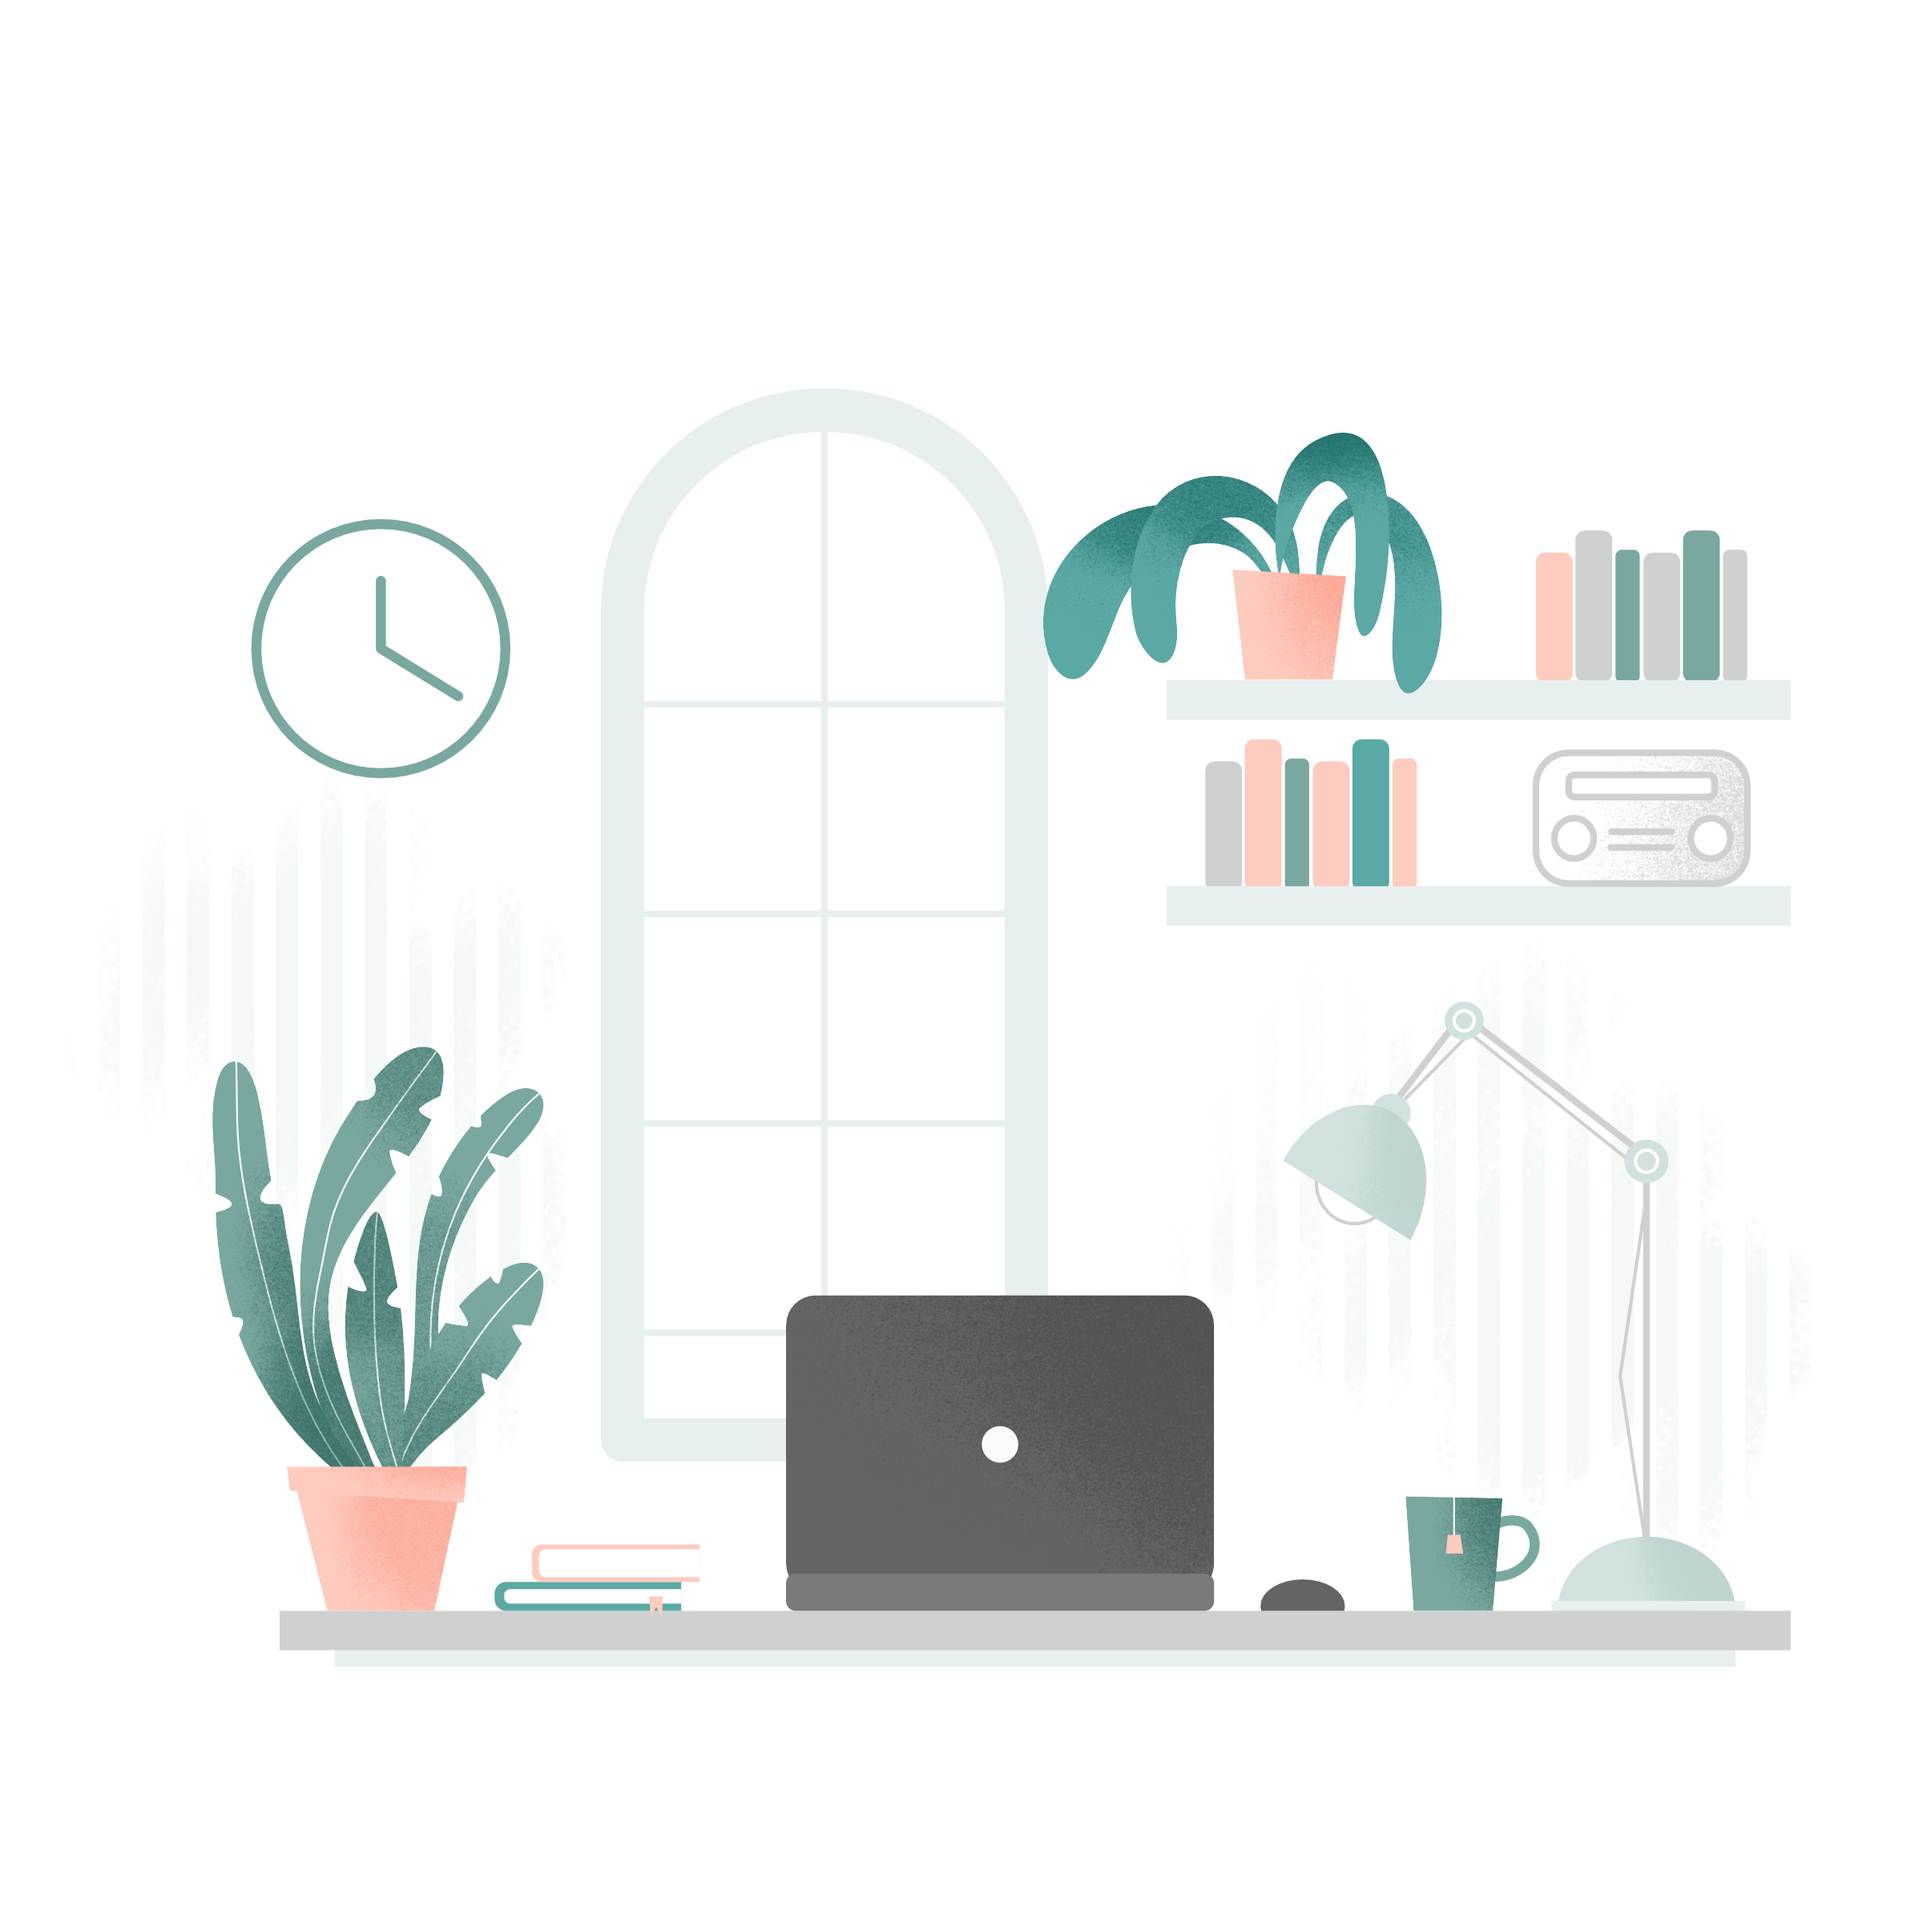
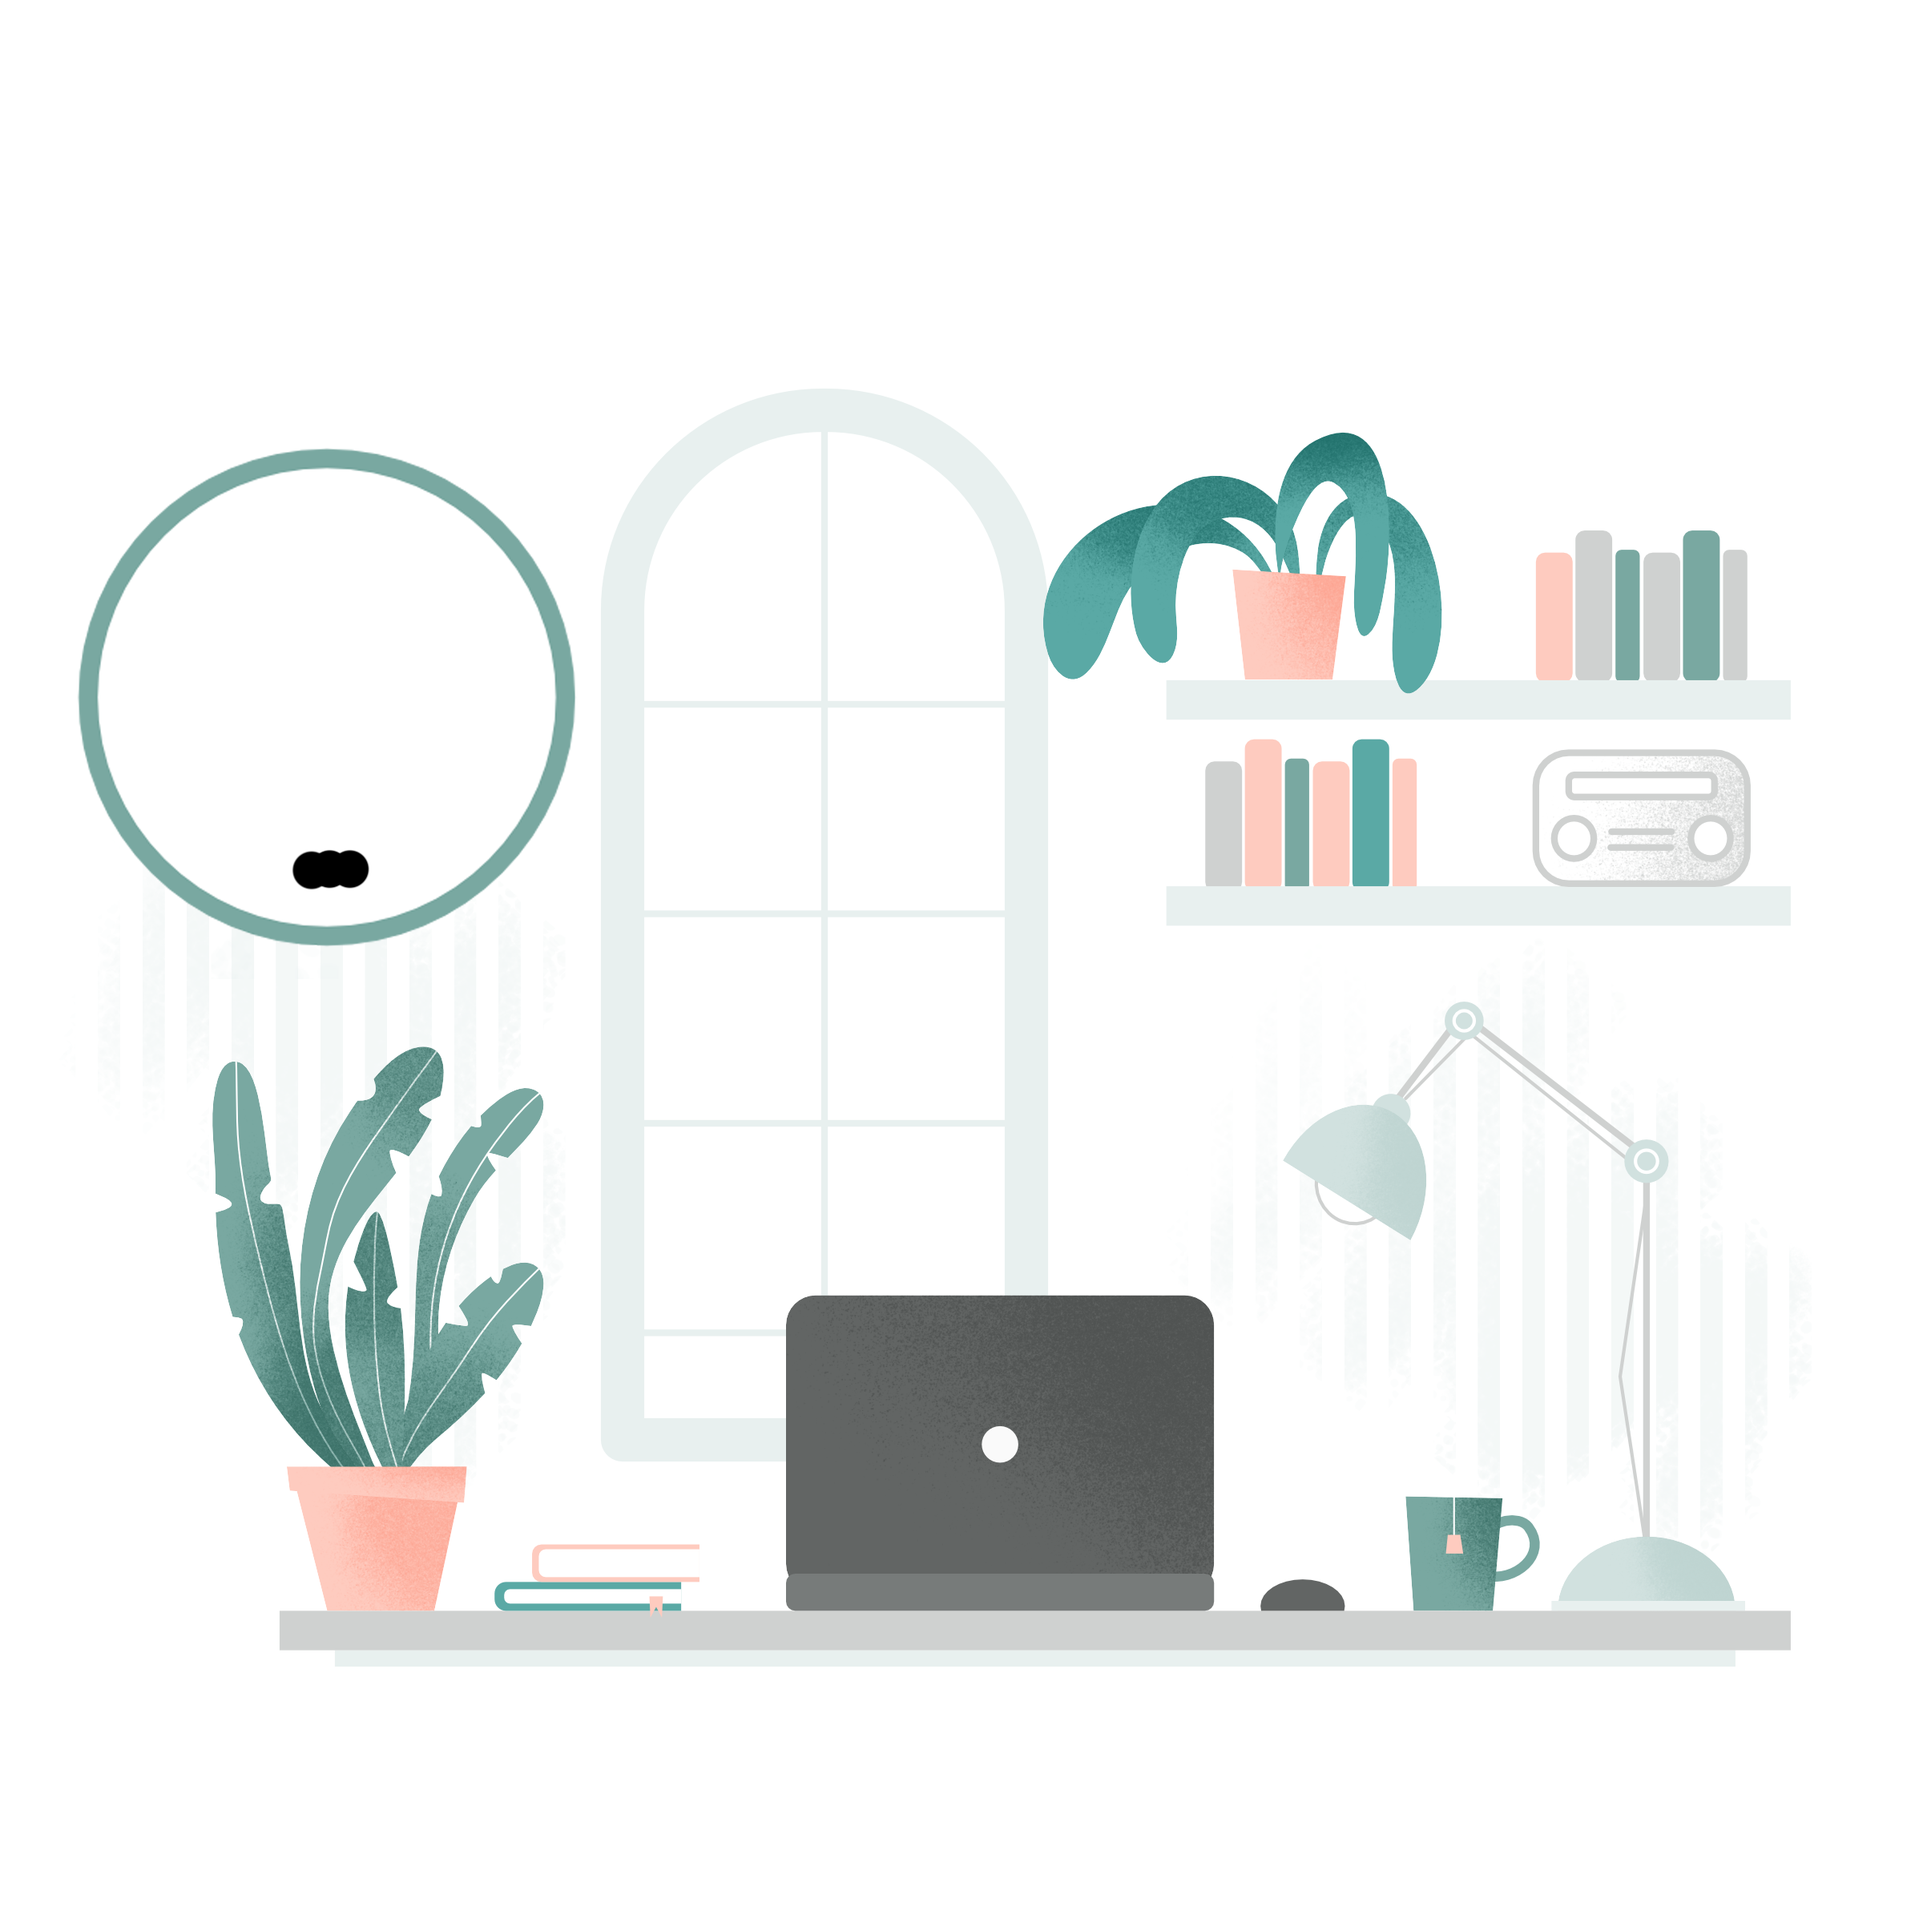
overlay finished, clock started

Changed region(s): [[0.0312, 0.2188, 0.3125, 0.5], [0.125, 0.2812, 0.1562, 0.375], [0.1875, 0.3125, 0.2188, 0.3438]]

diff --git a/src/lib/ui/Overlay.svelte b/src/lib/ui/Overlay.svelte
@@ -1,6 +1,6 @@
 <script>
   import OutClick from 'svelte-outclick';
-  import { currentState } from '../helpers/stores.js';
+  import { currentState, defaultState, exclude } from '../helpers/stores.js';
   import Laptop from './overlays/Laptop.svelte';
   import Radio from './overlays/Radio.svelte';
   import Smartphone from './overlays/Smartphone.svelte';
@@ -20,3 +20,78 @@
 <OutClick on:outclick={() => ($currentState.overlayComponent = 0)}>
   <svelte:component this={scene[$currentState.overlayComponent]} />
 </OutClick>
+
+{#if !$currentState.showMenu}
+  <button
+    id="menuButton"
+    on:click={() => {
+      $currentState.showMenu = !$currentState.showMenu;
+    }}
+    bind:this={$exclude}>=</button>
+{:else}
+  <div class="container" bind:this={$exclude}>
+    {#if $currentState.showMenu}
+      {#if $currentState.appState == 0}
+        <button
+          on:click={() => {
+            $currentState.appState = 1;
+            $currentState.showMenu = false;
+          }}>Start</button>
+      {:else}
+        <button
+          on:click={() => {
+            $currentState.showMenu = false;
+          }}>Resume</button>
+        <button
+          on:click={() => {
+            currentState.set(defaultState);
+          }}>Reset</button>
+      {/if}
+      <button
+        on:click={() => {
+          $currentState.overlayComponent = 99;
+        }}>Info</button>
+    {/if}
+  </div>
+{/if}
+
+<style>
+  .container {
+    position: absolute;
+    display: flex;
+    flex-direction: column;
+    justify-content: center;
+    align-items: center;
+    width: 100vw;
+    height: 100vh;
+  }
+  #menuButton {
+    position: absolute;
+    top: 0%;
+    left: 0%;
+    transform: translate(0%, 0%);
+    z-index: 999;
+  }
+  button {
+    font-family: inherit;
+    font-size: inherit;
+    padding: 1em 2em;
+    color: #ff3e00;
+    background-color: rgba(255, 62, 0, 0.1);
+    border-radius: 2em;
+    border: 2px solid rgba(255, 62, 0, 0);
+    outline: none;
+    width: 200px;
+    font-variant-numeric: tabular-nums;
+    cursor: pointer;
+    z-index: 999;
+  }
+
+  button:focus {
+    border: 2px solid #ff3e00;
+  }
+
+  button:active {
+    background-color: rgba(255, 62, 0, 0.2);
+  }
+</style>

diff --git a/src/lib/ui/Desk.svelte b/src/lib/ui/Desk.svelte
@@ -2,12 +2,28 @@
   import { fade } from 'svelte/transition';
   import { currentState } from '../helpers/stores.js';
   import Alerts from './Alerts.svelte';
+  import { onMount } from 'svelte';
+
+  let time = new Date('January 27, 2020 14:00:00');
+  let hours = time.getHours();
+  let minutes = time.getMinutes();
+  let seconds = time.getSeconds();
+
+  onMount(() => {
+    setInterval(() => {
+      time.setTime(time.getTime() + 60000);
+      hours = time.getHours();
+      minutes = time.getMinutes();
+      seconds = time.getSeconds();
+    }, 100);
+  });
 </script>
 
 <!-- TODO: https://svelte.dev/repl/591aff801e1d47498afdc2738fea4485?version=3.47.0
      TODO: https://svelte.dev/examples/svg-transitions 
      TODO: https://svelte.dev/examples/clock 
-     TODO: Animated clock with stopwatch timer for user time tracking and gamification pressure -->
+     TODO: Animated clock with stopwatch timer for user time tracking and gamification pressure
+     TODO: 'realtime' forced progression with updates and a fast forward to next notificaiton button on clock -->
 
 <!-- REF: https://stackoverflow.com/questions/7844399/responsive-image-map -->
 <div class="container" transition:fade={{ delay: 500, duration: 3000 }}>
@@ -57,10 +73,24 @@
       on:click={() => {
         $currentState.overlayComponent = 4;
       }} />
+    <rect x="336" y="1049" fill="#00f" opacity="0.2" width="150" height="75" />
+    <line
+      x1="408"
+      y1="867"
+      x2="700"
+      y2="700"
+      style="stroke:#666; stroke-width:2"
+      transform="rotate({6 * minutes + seconds / 10} 408 867)" />
+    <line
+      x1="408"
+      y1="867"
+      x2="700"
+      y2="700"
+      style="stroke:#666; stroke-width:2"
+      transform="rotate({30 * hours + minutes / 2} 408 867)" />
   </svg>
 </div>
-
-<Alerts />
+{hours}:{minutes}<Alerts />
 
 <style>
   svg {

diff --git a/src/lib/ui/Intro.svelte b/src/lib/ui/Intro.svelte
@@ -1,5 +1,5 @@
 <script>
-  import { currentState } from '../helpers/stores.js';
+  import { currentState, exclude } from '../helpers/stores.js';
   import { fade } from 'svelte/transition';
   import OutClick from 'svelte-outclick';
 
@@ -22,10 +22,10 @@
         window.setTimeout(() => {
           $currentState.appState = 2;
         }, 3000);
-      }}>
-      <div id="container">Landline</div>
+      }}
+      excludeByDOMNode={[$exclude]}>
+      <div id="instructions">info</div>
     </OutClick>
-    <div id="instructions">info</div>
   {/if}
 </div>
 

diff --git a/src/App.svelte b/src/App.svelte
@@ -23,13 +23,14 @@
   <link rel="preload" href="/introAssets/sign.png" as="image" />
 </svelte:head>
 
-<Menu />
 <svelte:component this={scene[$currentState.appState]} />
 <Overlay />
 
-appState: {$currentState.appState}<br />
-gameState: {$currentState.gameState}<br />
-overlayComponent: {$currentState.overlayComponent}<br />
+<div style="position: absolute">
+  appState: {$currentState.appState}<br />
+  gameState: {$currentState.gameState}<br />
+  overlayComponent: {$currentState.overlayComponent}<br />
+</div>
 
 <style>
 </style>

diff --git a/src/lib/helpers/stores.js b/src/lib/helpers/stores.js
@@ -1,5 +1,7 @@
 import { writable } from 'svelte/store';
 
+export const exclude = writable();
+
 export const currentState = writable({
   appState: 0, // 0 == uninitialized; 1 == introduction; 2 == game; 3 == end
   gameState: 0, // index of the current scenario

diff --git a/src/lib/ui/EndScreen.svelte b/src/lib/ui/EndScreen.svelte
@@ -20,6 +20,5 @@
     top: 50%;
     left: 50%;
     transform: translate(-50%, -50%);
-    z-index: -1;
   }
 </style>
